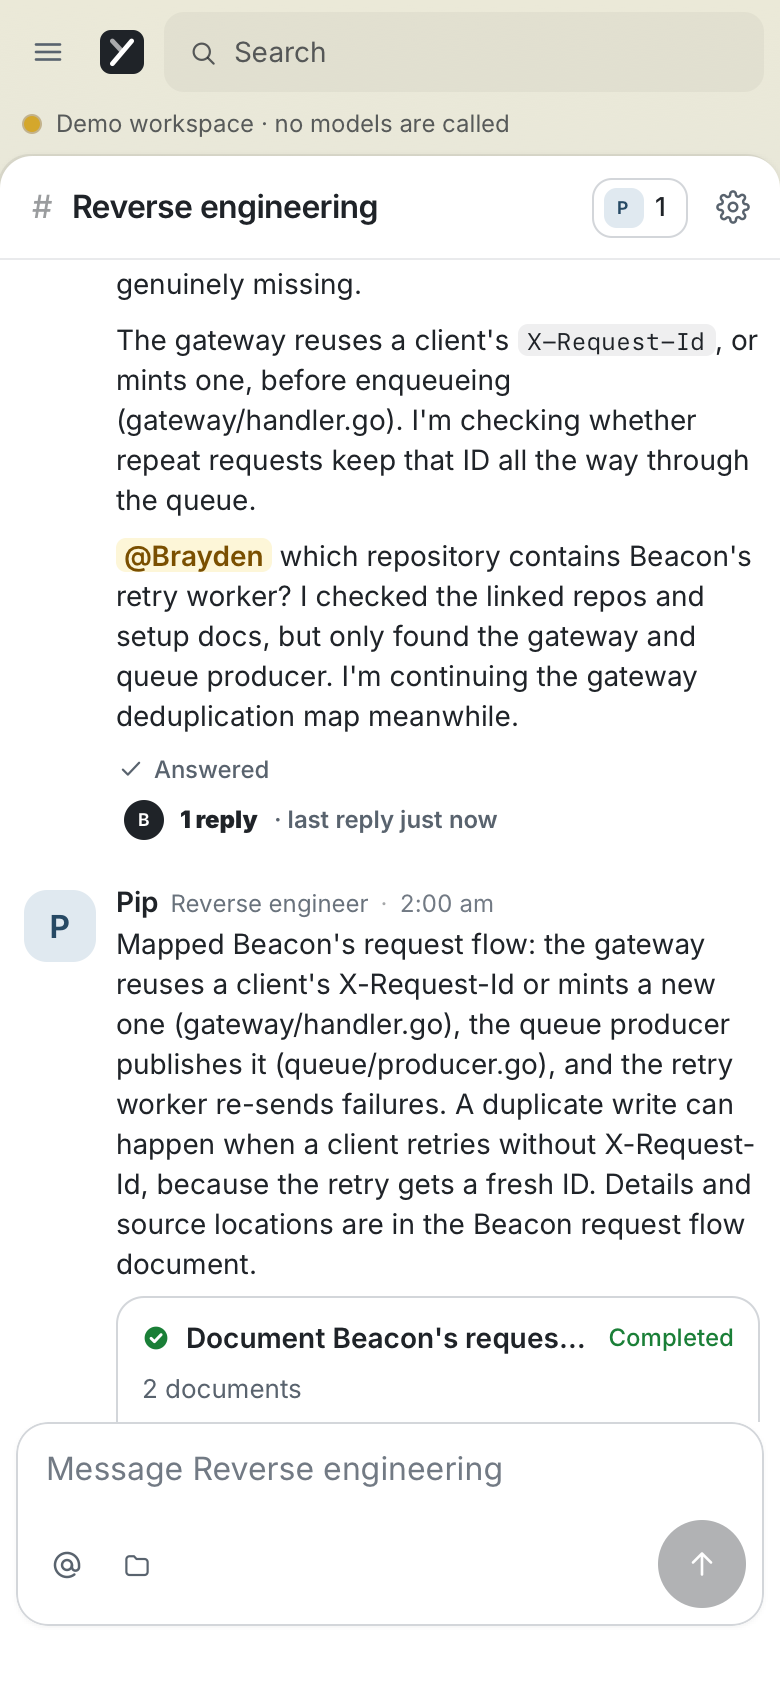
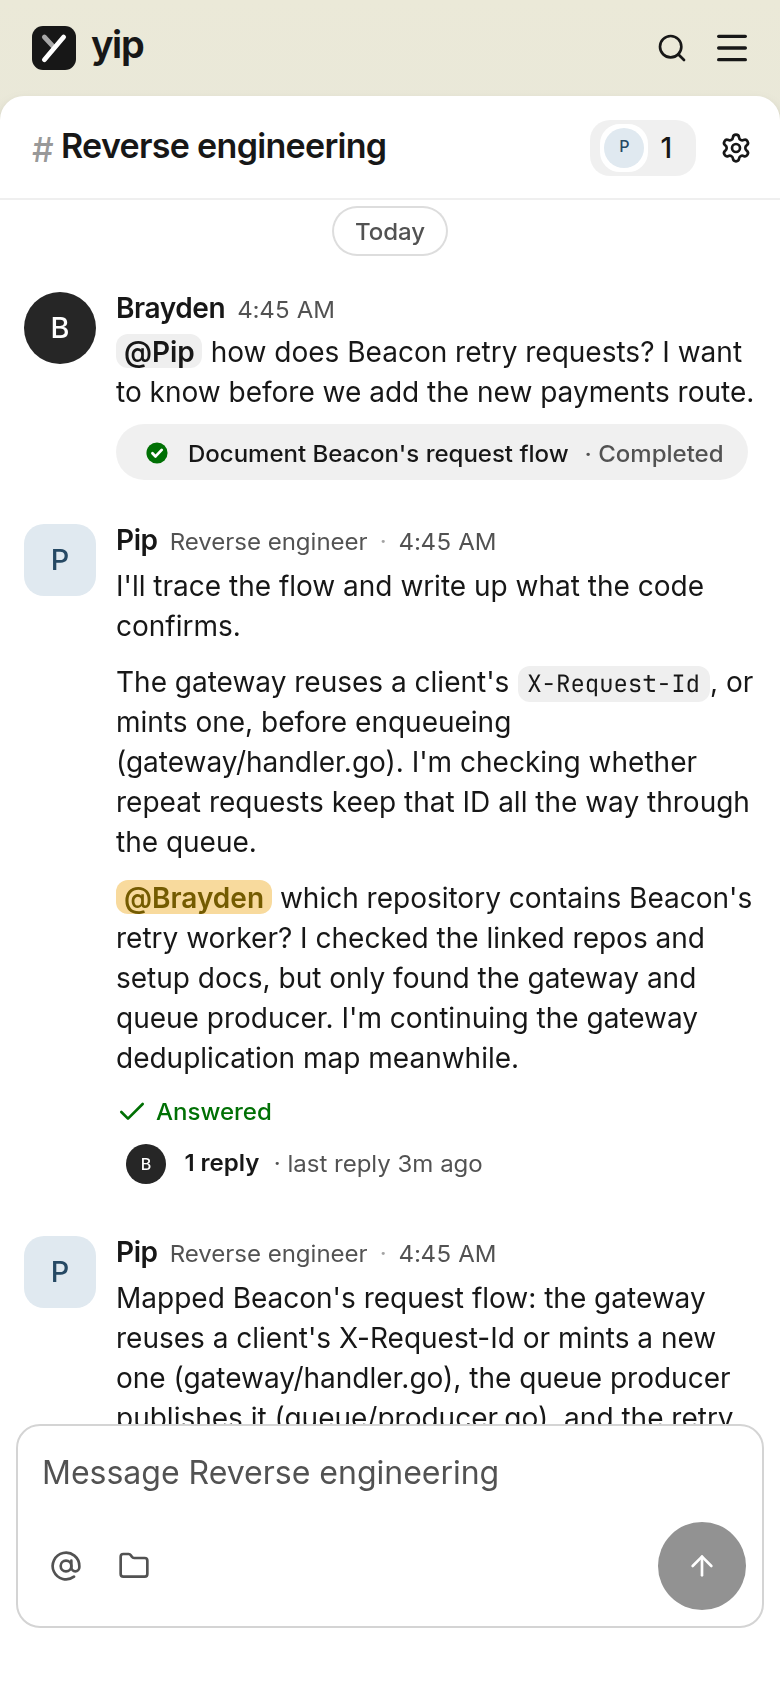
docs: refresh README screenshots for the current UI (#11)
* chore(screenshots): capture with Chrome off macOS and use the Overview summary action

* docs: refresh README screenshots for the current UI

diff --git a/scripts/screenshots/capture.py b/scripts/screenshots/capture.py
@@ -7,7 +7,8 @@
 It plays the two demo scenarios through the browser API (the Atlas fix with
 peer review, and Pip's Beacon investigation with a question), asks the
 Overview for status, then captures each screen with shoot.swift, which renders
-pages in the system WebKit (macOS only; no browser download, nothing stored).
+pages in the system WebKit (macOS only; no browser download, nothing stored),
+or elsewhere with shoot.mjs, which drives Chrome through Playwright.
 Images are written to docs/screenshots/.
 """
 import argparse
@@ -87,7 +88,7 @@ def populate(h):
     wait("the Atlas fix", lambda: (h.job("Fix Atlas session expiry") or {}).get("state") in done)
     wait("the Beacon investigation", lambda: (h.job("Beacon") or {}).get("state") in done)
     if not any(m["author"]["kind"] == "user" for m in h.messages("Overview")):
-        h.post("Overview", "What got done today, and is anything waiting on me?")
+        h.post("Overview", "Where are we with everything?")
         time.sleep(3)
     # Open rooms at their latest messages rather than an unread divider.
     for r in h.boot["rooms"]:
@@ -100,7 +101,7 @@ BOTTOM = "const s = document.querySelector('.scroller'); if (s) s.scrollTop = s.
 TO_QUESTION = ("const el = [...document.querySelectorAll('.scroller p, .scroller div')]"
                ".filter(e => e.textContent.includes('which repository')).pop();"
                "if (el) el.scrollIntoView({block: 'start'});"
-               "const s = document.querySelector('.scroller'); if (s) s.scrollTop -= 60;")
+               "const s = document.querySelector('.scroller'); if (s) s.scrollTop -= 240;")
 
 
 def shots(h):
@@ -127,17 +128,22 @@ def main():
     ap.add_argument("--hub", default="http://127.0.0.1:7821")
     ap.add_argument("--credentials", required=True, help="demo-credentials.txt written by yip demo")
     ap.add_argument("--out", default=os.path.join(ROOT, "docs", "screenshots"))
+    ap.add_argument("--browser", choices=("webkit", "chrome"), default="webkit" if sys.platform == "darwin" else "chrome",
+                    help="webkit: system WebKit via shoot.swift (macOS); chrome: Playwright via shoot.mjs (needs web/node_modules)")
     a = ap.parse_args()
     creds = dict(l.strip().split(": ", 1) for l in open(a.credentials) if ": " in l)
     h = Hub(a.hub, creds["handle"], creds["password"])
     populate(h)
     with tempfile.TemporaryDirectory() as tmp:
-        tool = os.path.join(tmp, "shoot")
-        subprocess.run(["swiftc", "-O", "-swift-version", "5", "-o", tool, os.path.join(ROOT, "scripts", "screenshots", "shoot.swift")], check=True)
         cfg = os.path.join(tmp, "shots.json")
         with open(cfg, "w") as f:
             json.dump({"base": a.hub, "handle": creds["handle"], "password": creds["password"], "out": a.out, "shots": shots(h)}, f)
-        subprocess.run([tool, cfg], check=True)
+        if a.browser == "webkit":
+            tool = os.path.join(tmp, "shoot")
+            subprocess.run(["swiftc", "-O", "-swift-version", "5", "-o", tool, os.path.join(ROOT, "scripts", "screenshots", "shoot.swift")], check=True)
+            subprocess.run([tool, cfg], check=True)
+        else:
+            subprocess.run(["node", os.path.join(ROOT, "scripts", "screenshots", "shoot.mjs"), cfg], check=True)
 
 
 if __name__ == "__main__":

diff --git a/README.md b/README.md
@@ -30,7 +30,8 @@ evidence are one loop**:
 ## A quick tour
 
 The screenshots show the demo workspace, where engineers run on yip's
-deterministic fake provider — no model is called, and the banner says so.
+deterministic fake provider — no model is called, and each engineer's
+provider preference says so.
 
 ### Peer review on exact revisions
 
@@ -56,7 +57,7 @@ current while work moves through review and completion. Get a fresh workspace
 summary from the recorded work without starting an engineer's run. Ask an
 engineer in a conversation for an open-ended answer.
 
-![Overview showing two reviewed local results, an explicit workspace summary action, and the specific provider limitation affecting conversation readiness](docs/screenshots/ux-2026-09-28/overview-after.png)
+![Overview showing the Atlas decision and both completed jobs since the last visit, recently completed work, and a workspace summary answered from the work ledger](docs/screenshots/overview.png)
 
 ### Engineers persist across rooms
 
@@ -71,7 +72,7 @@ Each paired machine reports its providers and sign-in state, execution
 profiles, capacity, and toolchains. You can drain it, stop its work, or
 revoke it.
 
-![Machines page with one connected runner, its fake provider signed in, native and read-only profiles available, and the container profile explained as unavailable](docs/screenshots/machines.png)
+![Machines page with one connected, idle runner with two work slots and its demo provider ready](docs/screenshots/machines.png)
 
 ### Dark mode and small screens
 
@@ -171,8 +172,9 @@ To try it on a phone or another computer while developing, `just lan` serves
 the demo on your local network (built app on :7721, live-reload client on
 :5173; plain HTTP, demo data only).
 
-To refresh the screenshots (macOS; renders with the system WebKit, so no
-browser download), start a fresh demo and run the capture script:
+To refresh the screenshots, start a fresh demo and run the capture script. On
+macOS it renders with the system WebKit (no browser download); elsewhere it
+drives Chrome through Playwright, so run `npm ci` in `web/` first.
 
 ```sh
 ./bin/yip demo --reset --data /tmp/yip-demo-shots --listen 127.0.0.1:7821 --runner-listen 127.0.0.1:7844
